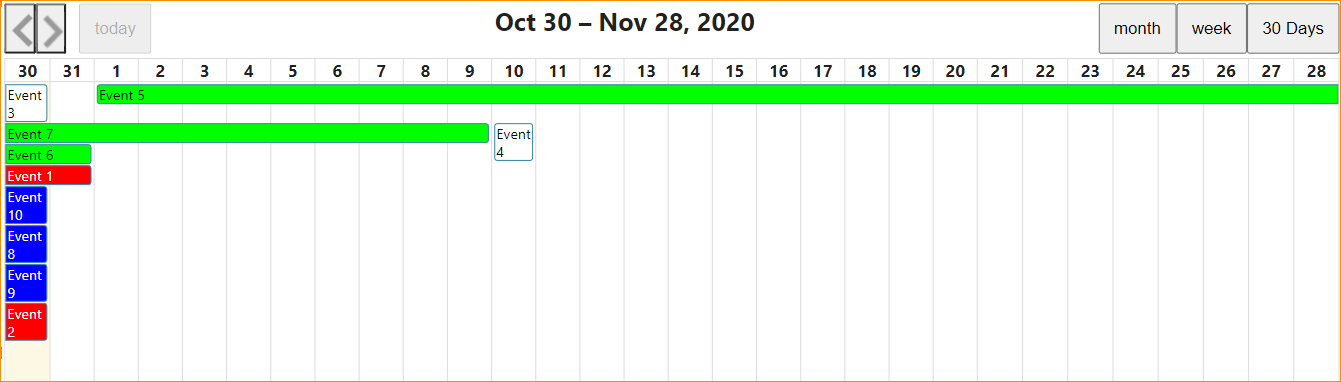
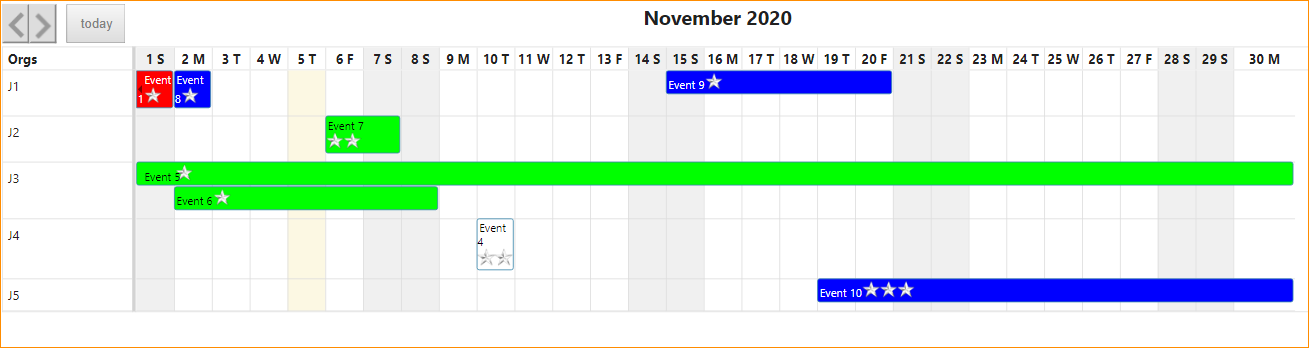
updated docs

diff --git a/src/calendar.tsx b/src/calendar.tsx
@@ -53,7 +53,7 @@ export const initialState: State = {
   //type: "dayGrid30",
   type: "resourceTimeline",
   selectionManager: null,
-  resources: [{id:"NA",title:"NA"}], //[{id:"J1",title:"J1"},{id:"J2",title:"J2"},{id:"J3",title:"J3"},{id:"J4",title:"J4"}]
+  resources: [{id:null,title:"NA"}], //[{id:"J1",title:"J1"},{id:"J2",title:"J2"},{id:"J3",title:"J3"},{id:"J4",title:"J4"}]
   header: "Orgs",
   headerWidth: 10
 }

diff --git a/README.md b/README.md
@@ -39,12 +39,13 @@
     * .pbviz file written to the dist folder
 
 # Columns
-* Identity - currently not used (may be removed)
-* Grouping - (in development) used to group tasks into swimlanes
+* Identity - ideally unique - used as drillthrough filter
+* Grouping - used to group tasks into swimlanes
 * Title - controls text displayed in event
 * Color - controls the color of the event (currently requires HEX color)
 * Start - controls start date of event
 * End - controls end data of event
+* Image - url (or base64 encoded image) to display in-line with the title
 * Tool Tips - currently not used (will be used for tooltips)
 
 # Tips
@@ -53,26 +54,13 @@
 * Use "debugger" keyword to break in the f12 debugger
 * Saving a file will auto-rebuild
 
-# Known bugs
+# Possible Issues
 * BUG: For some reason, the hex background color is being converted to a named color in some cases, which causes the drillthrough to fail when all filters are kept, e.g. Color = "Red" filter fails, and the data set uses #ff0000 (can't currently reproduce)
 * BUG: Synchronizing highlighting after you filter this viz then another (can't currently reproduce)
 
-# Sync Visual Requirements 
-* (done) 30-day view (*with scroll to show additional days)  
-* (done) Ability to show text in/next to each activity’s bar 
-* (done) Ability to color-code bars based on some category 
-* (done) Ability to display/highlight groupings of activities 
-	* (done) need to add swim lane view
-* (not started) *Ability to display a symbol next to each activity’s text 
-	* need to add url column and inject img tag
-
 # Other Backlog/TODO
-* Improve CSS (e.g. handle long titles better)
-* Add image/icon support
-* The only required fields to render should be Title, Start and End
+* The only required fields to render should be Title and Start
 * “Skip ahead/back N days” buttons (instead of 1 month at a time)
-* Configurable resource column width (resourceAreaWidth)  (currently set to 30%)
-* Configurable header text (resourceLabelText) (currently set to “Orgs”)
 * Change column header format (currently day number and first letter of week day)
 * Improve "Color" column
     * Allow named colors as well as hex
@@ -81,7 +69,6 @@
 * Add error checking (e.g. for dates and colors)
     * Check table data types, handle gracefully
 * Figure out best way to sort tooltips
-* Add other views (week view, time view, etc.)
 
 # Possible Future Backlog
 * Replace react code - there are too many disconnects and "hacky" things that have to be done to make it work right
